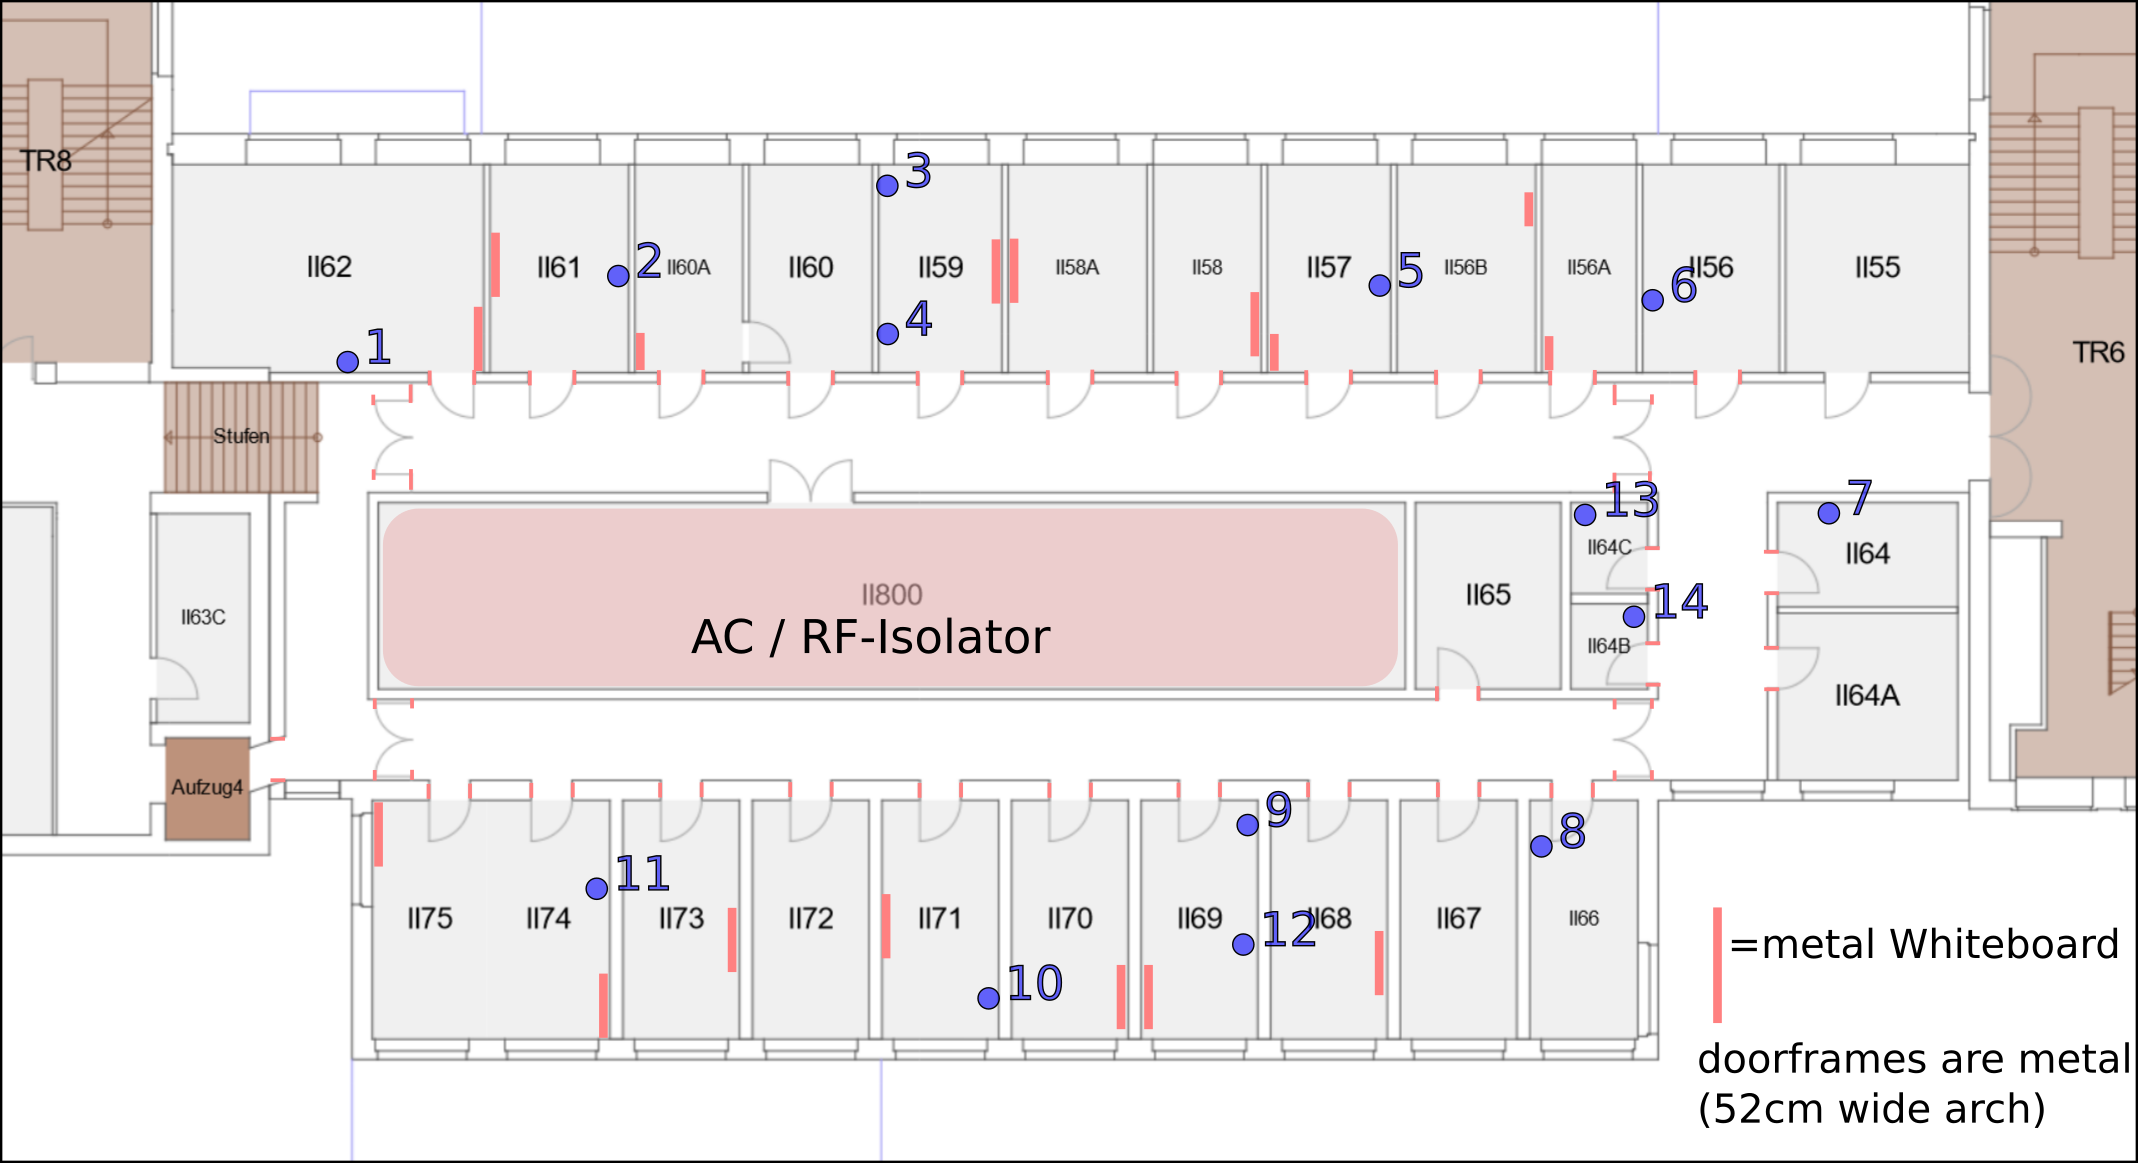
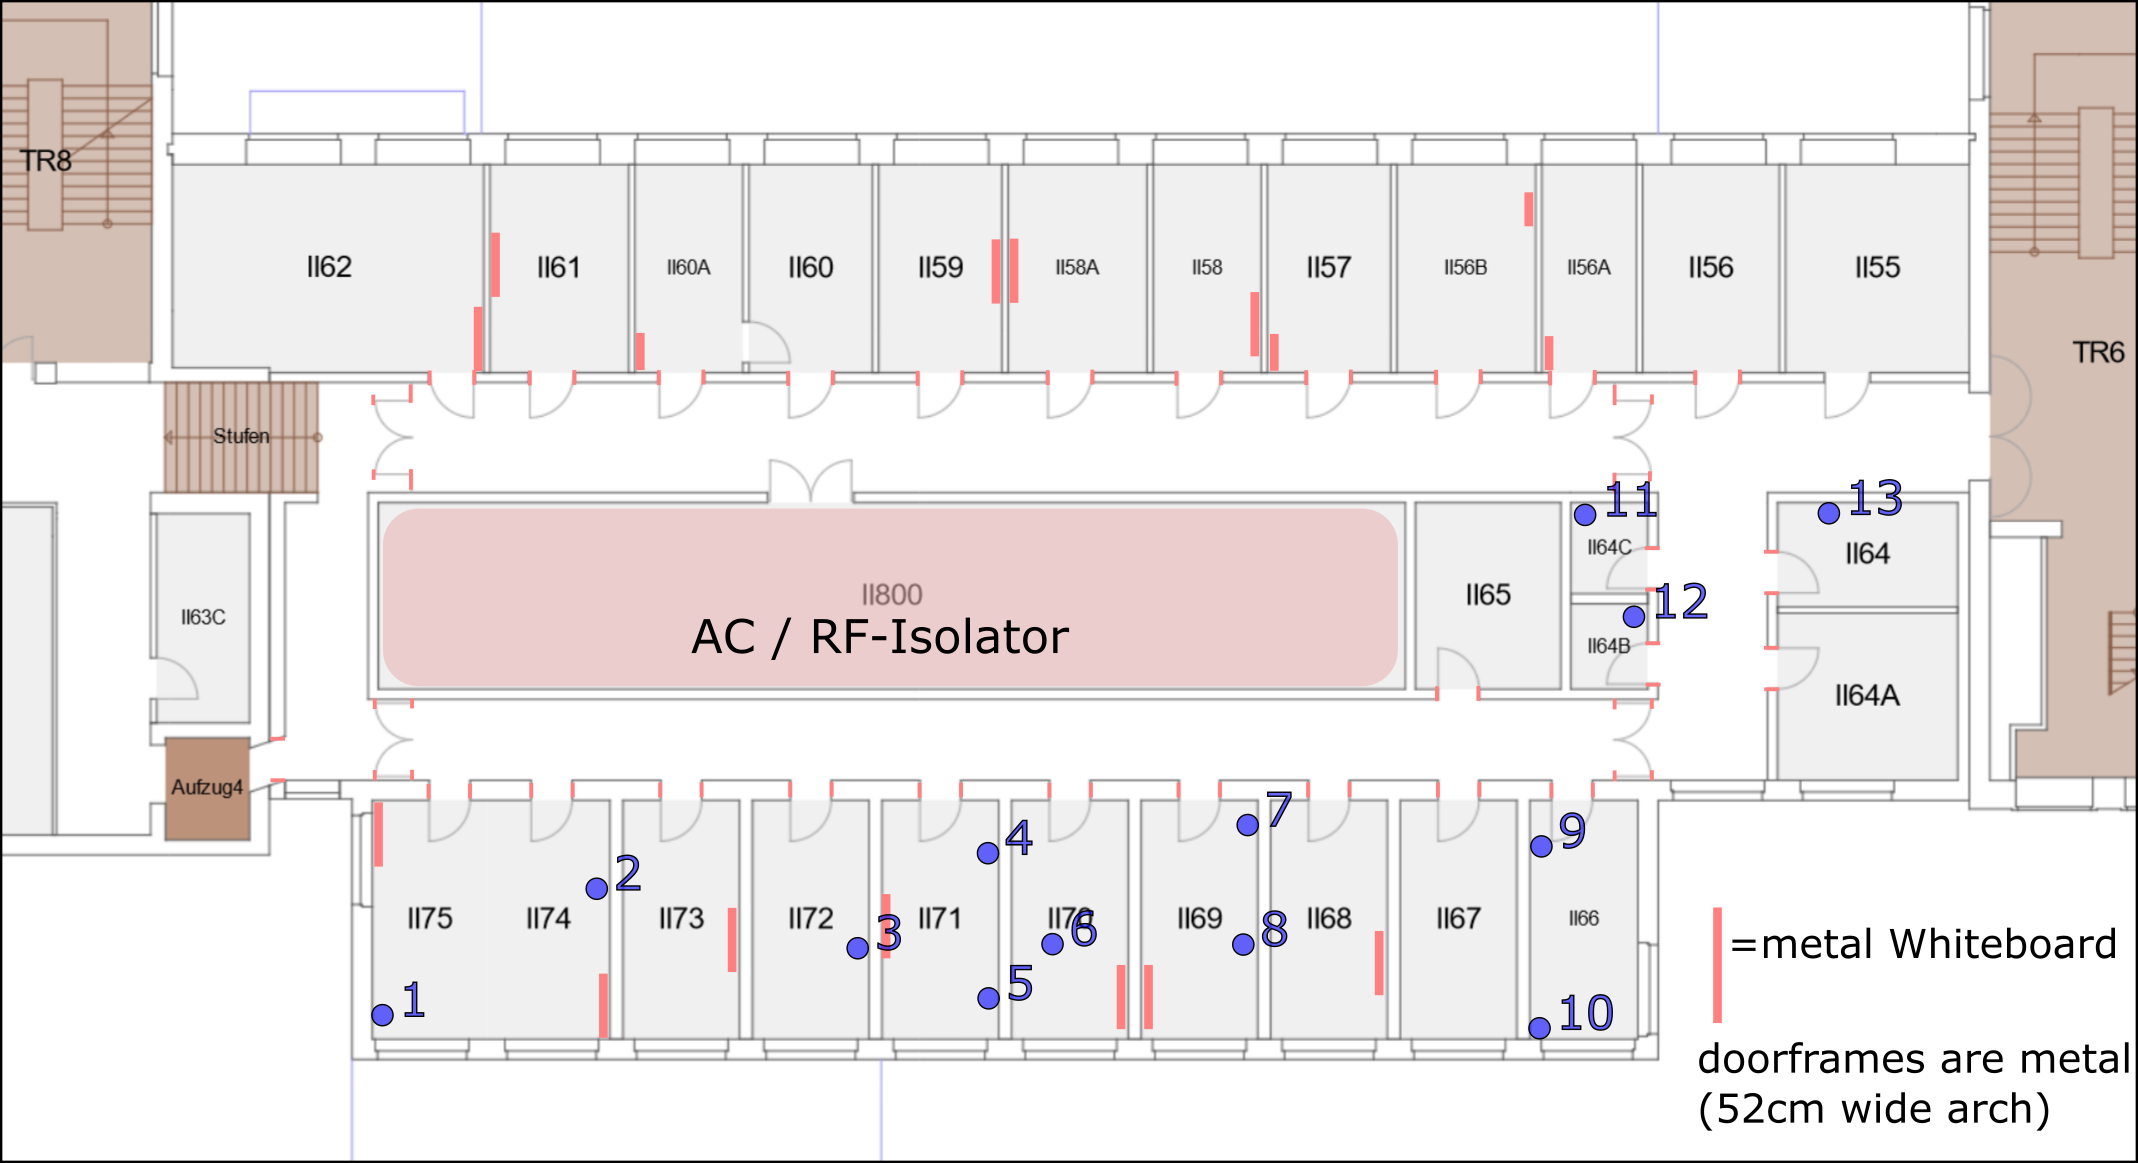
update floorplan

diff --git a/docs/testbed/instance_tud.md b/docs/testbed/instance_tud.md
@@ -1,10 +1,14 @@
 # Instance at TU Dresden
 
-In the second half of 2023 a public instance of the Shepherd Testbed went live. This section of the documentation is the landing-page and informs users about the first steps.
+In the second half of 2023 a (semi-)public instance of the Shepherd Testbed went live. This section of the documentation will be landing-page and inform users about the first steps.
+
+Direct Link: <https://shepherd.cfaed.tu-dresden.de/>
 
 ## Deployment
 
-The initial deployment is covering the ring of offices around the buildings ventilation system. The inner structure mostly blocks RF due to lots of metal vents. 14 shepherd observers are used for the testrun.
+The initial deployment covered the ring of offices around the buildings ventilation system. The inner structure mostly blocks RF due to lots of metal vents. 10 - 14 shepherd observers were used for the testrun. Unfortunately the RF-Performance of the nodes was not strong enough to close the gap between II62 and II75 (left side of plan). The Issue is documented [here](https://github.com/orgua/shepherd-targets/issues/3) and new targets with external antenna are in production.
+
+For now (April 2024) the testbed was reshaped to mimic an elongated multihop mesh-network on the lower part of the office-floor.
 
 Below is a screenshot of the [Campus-Navigator](https://navigator.tu-dresden.de/etplan/bar/02) with marked node-positions.
 
@@ -13,28 +17,10 @@ Below is a screenshot of the [Campus-Navigator](https://navigator.tu-dresden.de/
 Most horizontal walls are concrete, while the walls between offices are drywall.
 
 The link-matrix of the Testbed looks like that (values in dBm):
-pay
-```
-Tx⟍Rx     1     2     3     4     5     6     7     8    10    11    12    13    14
-     +-----------------------------------------------------------------------------
-   1 |        -70   -84   -90
-   2 |  -67         -77
-   3 |  -81   -78         -70   -86
-   4 |  -86         -69         -80
-   5 |              -87   -81         -72
-   6 |                          -72         -80                           -81
-   7 |                                -83         -83                     -89
-   8 |                                      -81               -86   -60   -80   -81
-  10 |                                                              -81
-  11 |                                            -85               -82
-  12 |                                            -61   -86   -85
-  13 |                                -83   -88   -81                           -63
-  14 |                                            -79                     -61
+
 ```
 
-:::{note}
-Node 9 is permanently offline
-:::
+```
 
 ## Controlling the Testbed
 
@@ -92,7 +78,6 @@ shepherd-herd run tb_tasks_rf_survey.yaml
 - available [firmwares for the targets](https://github.com/orgua/shepherd-targets)
     - adapted [Trafficbench](https://github.com/orgua/TrafficBench) for an [RF-survey](https://github.com/orgua/shepherd-targets/tree/main/nrf52_rf_survey)
 - the [Trafficbench pythontool](https://pypi.org/project/trafficbench)
-  - [Link-Matrix of the Testbed](https://github.com/orgua/shepherd-targets/issues/3#issuecomment-1816709179)
 
 ## Contributions
 
